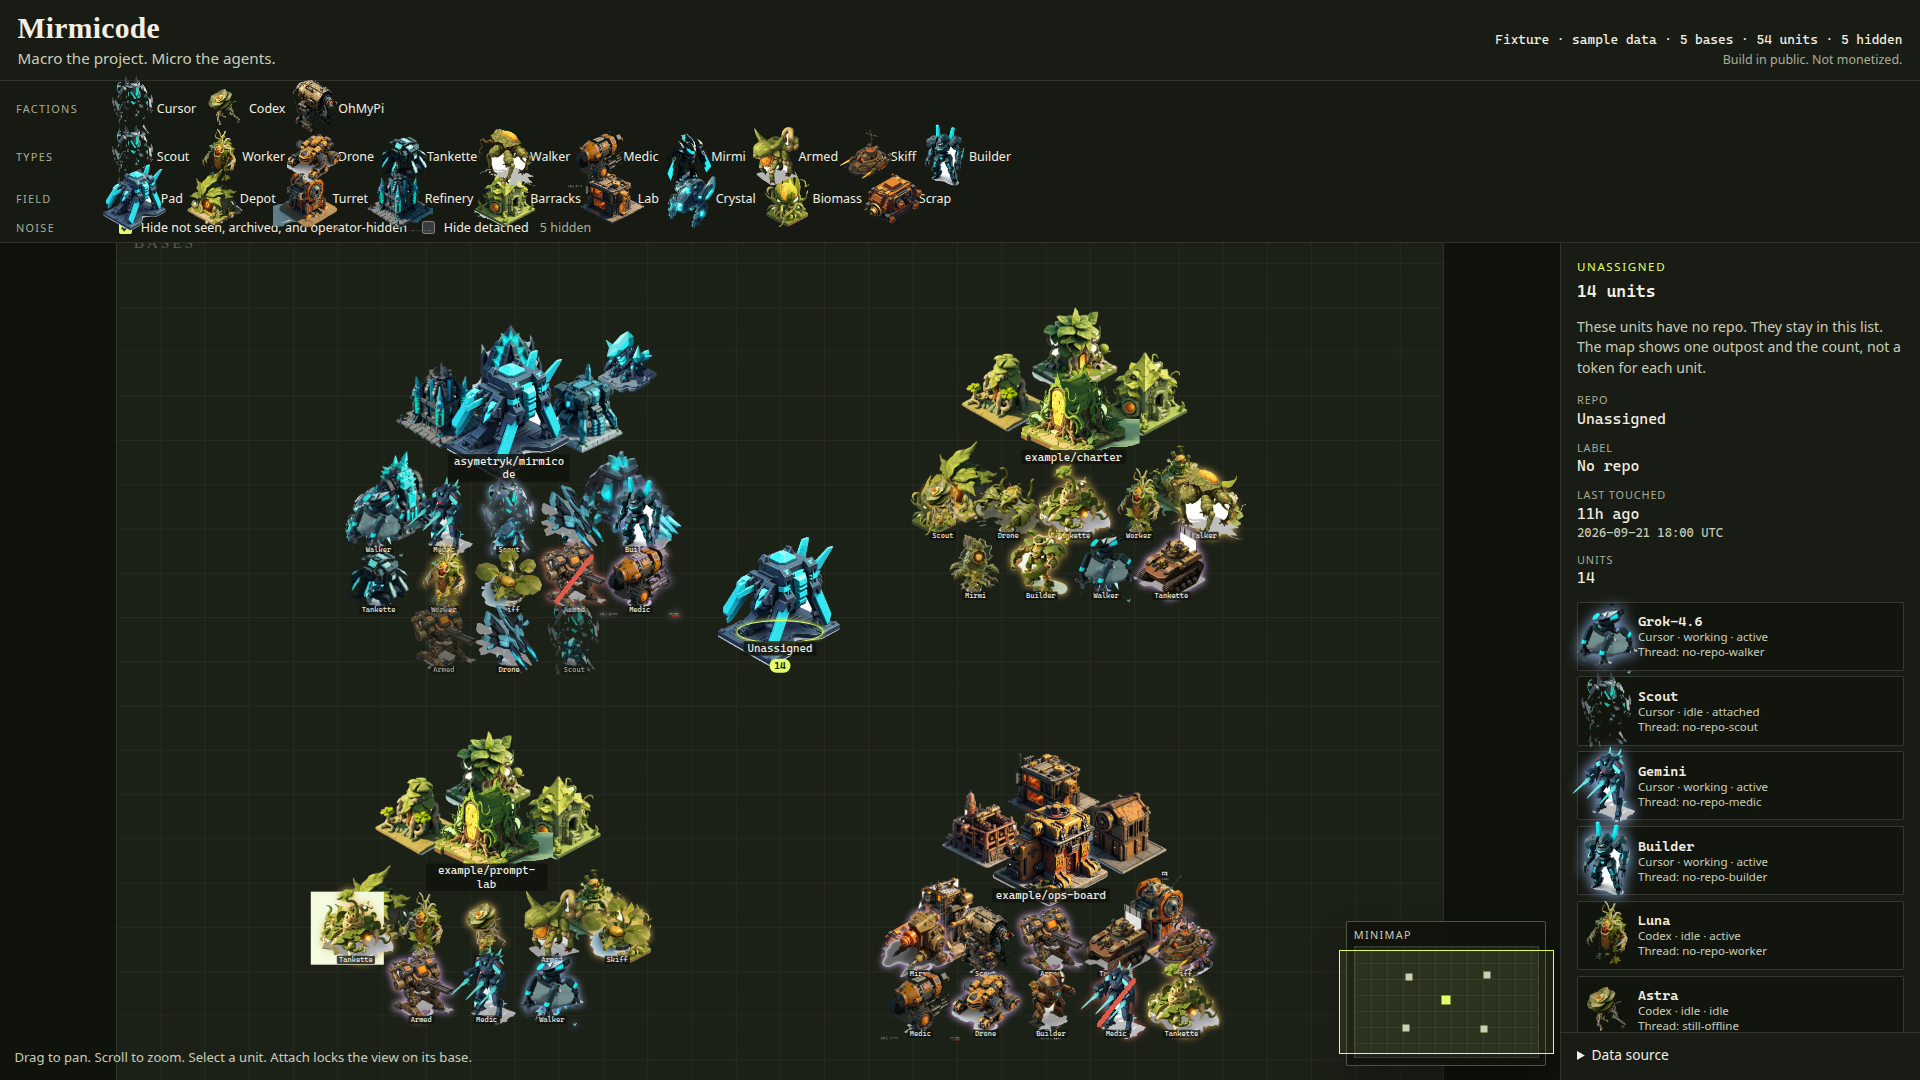
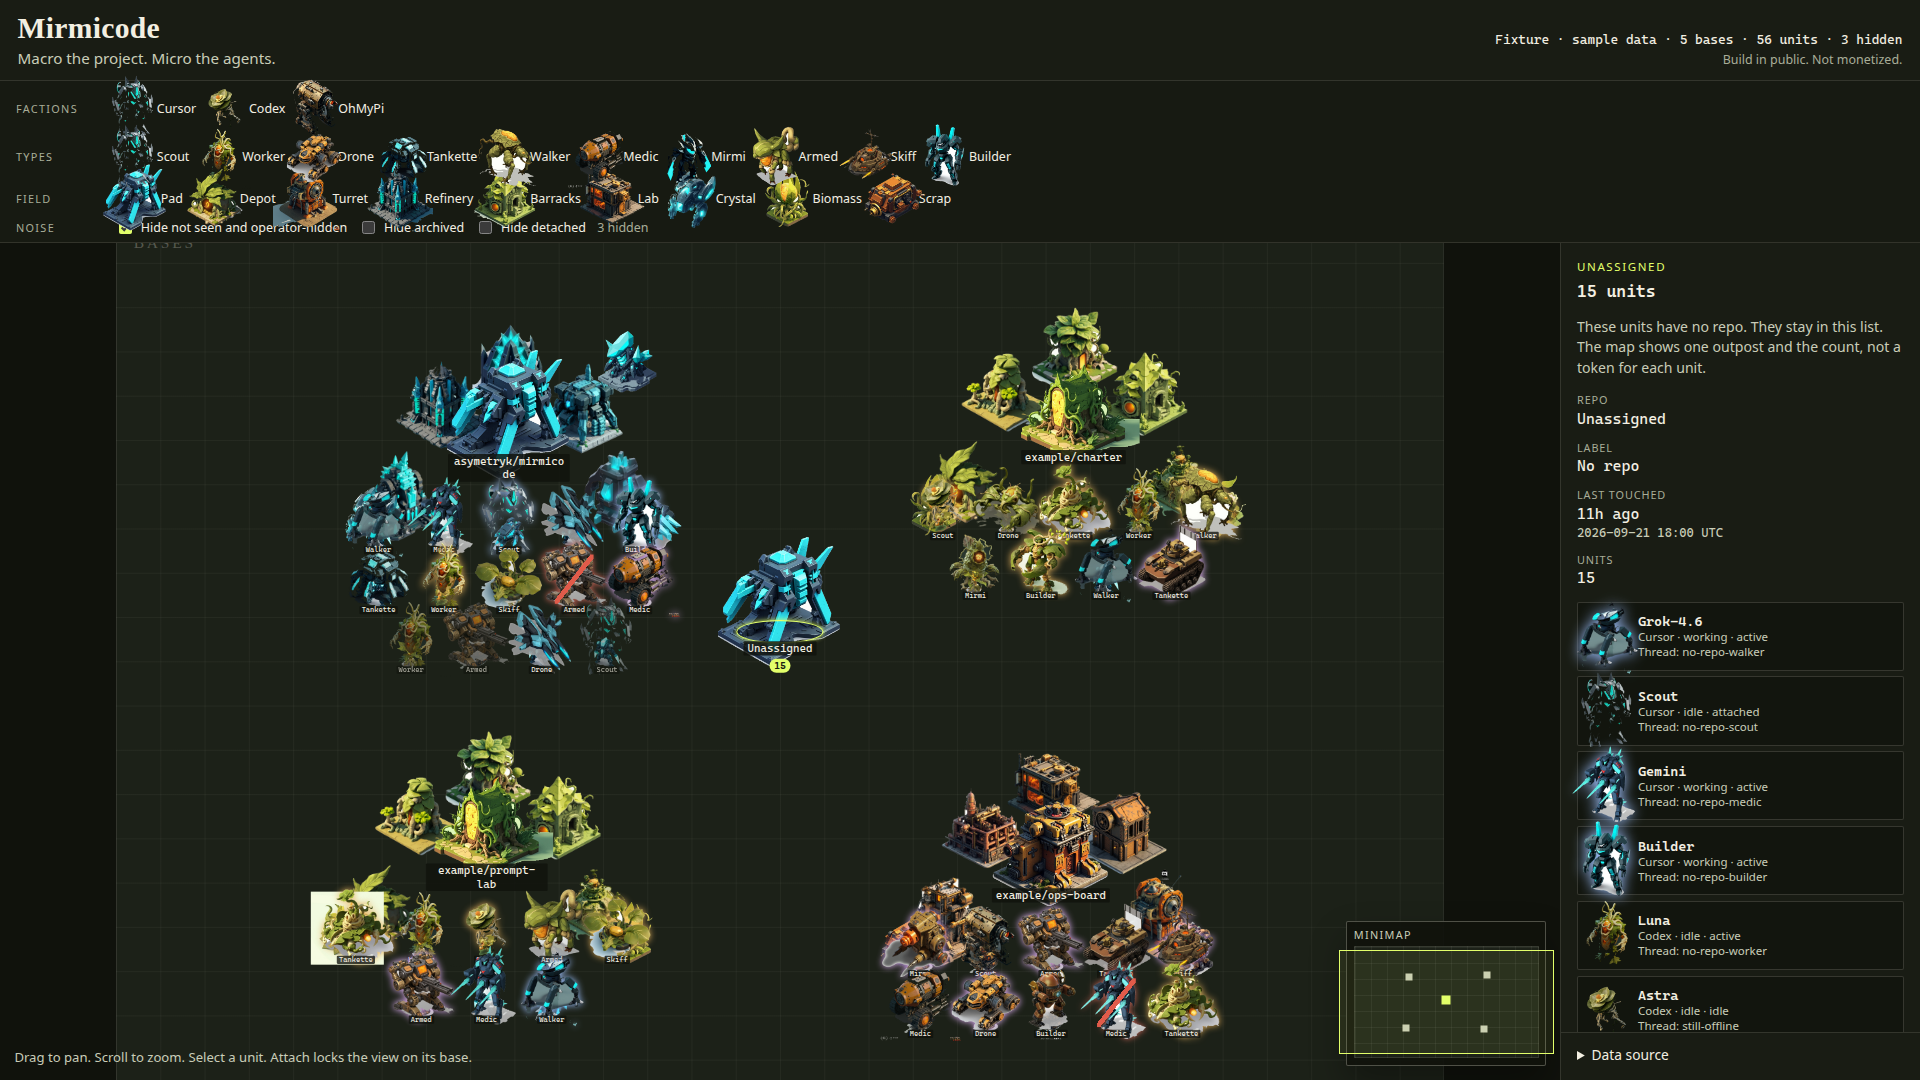
Dim archived units instead of hiding them by default
Archived stays on the map at lower emphasis, with an optional Hide archived
switch. Default hide remains not_seen and operator-hidden. Unknown stays
dim, and Last prompt still prefers the observed prompt fields.

Changed region(s): [[0.1875, 0.55, 0.3438, 0.6417], [0.125, 0.1833, 0.3438, 0.2139]]

diff --git a/src/mapNoise.test.ts b/src/mapNoise.test.ts
@@ -30,39 +30,52 @@ describe("exactToken", () => {
 describe("noiseReason", () => {
   const on = DEFAULT_NOISE_FILTER;
 
-  it("hard-hides not_seen, archived, and annotation.hidden", () => {
+  it("hard-hides not_seen and annotation.hidden, and dims archived until asked", () => {
     expect(noiseReason({ presence: "not_seen", lifecycle: "idle" }, on)).toBe("not_seen");
     expect(noiseReason({ presence: "NOT_SEEN", lifecycle: null }, on)).toBe("not_seen");
-    expect(noiseReason({ presence: "present", lifecycle: "archived" }, on)).toBe("archived");
+    expect(noiseReason({ presence: "present", lifecycle: "archived" }, on)).toBeNull();
     expect(noiseReason({ presence: "present", lifecycle: "idle", hidden: true }, on)).toBe("hidden");
+    expect(
+      noiseReason({ presence: "present", lifecycle: "archived" }, { hideNoise: true, hideDetached: false, hideArchived: true }),
+    ).toBe("archived");
   });
 
-  it("keeps detached and unknown visible, including a stale snapshot's units", () => {
+  it("keeps archived, detached, and unknown visible, including a stale snapshot's units", () => {
     expect(noiseReason({ presence: "present", lifecycle: "detached" }, on)).toBeNull();
+    expect(noiseReason({ presence: "present", lifecycle: "archived" }, on)).toBeNull();
     expect(noiseReason({ presence: "present", lifecycle: "unknown", harness: "cursor" }, on)).toBeNull();
     expect(noiseReason({ presence: "present", lifecycle: "idle" }, on)).toBeNull();
     expect(noiseReason({ presence: "not-seen", lifecycle: "idle" }, on)).toBeNull();
     expect(noiseReason({ presence: null, lifecycle: null }, on)).toBeNull();
-    expect(noiseReason({ presence: "present", lifecycle: "detached" }, { hideNoise: true, hideDetached: true })).toBe("detached");
-    expect(noiseReason({ presence: "not_seen", lifecycle: "archived", hidden: true }, { hideNoise: false, hideDetached: false })).toBeNull();
+    expect(
+      noiseReason({ presence: "present", lifecycle: "detached" }, { hideNoise: true, hideDetached: true, hideArchived: false }),
+    ).toBe("detached");
+    expect(
+      noiseReason(
+        { presence: "not_seen", lifecycle: "archived", hidden: true },
+        { hideNoise: false, hideDetached: false, hideArchived: false },
+      ),
+    ).toBeNull();
 
     const { bases, stale } = normalizeWorkingSetPayload({
       snapshot: { stale: true },
       items: [
         { item_id: "still-here", observed: { repo_name: "example/kept", lifecycle: "idle", presence: "present" } },
-        { item_id: "gone", observed: { repo_name: "example/kept", lifecycle: "archived", presence: "present" } },
+        { item_id: "cold", observed: { repo_name: "example/kept", lifecycle: "archived", presence: "present" } },
       ],
     });
     expect(stale).toBe(true);
     const filtered = applyNoiseFilter(bases, DEFAULT_NOISE_FILTER);
-    expect(filtered.bases[0]?.units.map((unit) => unit.id)).toEqual(["still-here"]);
-    expect(filtered.hiddenCount).toBe(1);
+    expect(filtered.bases[0]?.units.map((unit) => unit.id)).toEqual(["still-here", "cold"]);
+    expect(unitEmphasis(filtered.bases[0]!.units[1]!, "example/kept")).toBe("dim");
+    expect(filtered.hiddenCount).toBe(0);
   });
 });
 
 describe("unitEmphasis", () => {
-  it("dims detached and unknown, and demotes repo-less Cursor unknowns further", () => {
+  it("dims archived, detached, and unknown, and demotes repo-less Cursor unknowns further", () => {
     expect(unitEmphasis({ presence: "present", lifecycle: "idle" }, "example/repo")).toBe("normal");
+    expect(unitEmphasis({ presence: "present", lifecycle: "archived" }, "example/repo")).toBe("dim");
     expect(unitEmphasis({ presence: "present", lifecycle: "detached" }, "example/repo")).toBe("dim");
     expect(unitEmphasis({ presence: "present", lifecycle: "unknown", harness: "cursor" }, "example/repo")).toBe("dim");
     expect(unitEmphasis({ presence: "present", lifecycle: "unknown", harness: "codex" }, "Unassigned")).toBe("dim");
@@ -84,13 +97,15 @@ describe("applyNoiseFilter", () => {
       ],
     });
     const filtered = applyNoiseFilter(bases, DEFAULT_NOISE_FILTER);
-    expect(filtered.hiddenCount).toBe(2);
-    expect(filtered.bases.map((base) => base.repo)).toEqual(["Unassigned", "example/kept"]);
+    expect(filtered.hiddenCount).toBe(1);
+    expect(filtered.bases.map((base) => base.repo)).toEqual(["Unassigned", "example/kept", "example/empty"]);
     expect(filtered.bases[0]?.units.map((unit) => unit.id)).toEqual(["detached", "bc-cloud"]);
     expect(unitEmphasis(filtered.bases[0]!.units[0]!, "Unassigned")).toBe("dim");
     expect(unitEmphasis(filtered.bases[0]!.units[1]!, "Unassigned")).toBe("collector");
     expect(drawsUnitTokens("Unassigned")).toBe(false);
     expect(filtered.bases[1]?.units.map((unit) => unit.id)).toEqual(["kept"]);
+    expect(filtered.bases[2]?.units.map((unit) => unit.id)).toEqual(["archived"]);
+    expect(unitEmphasis(filtered.bases[2]!.units[0]!, "example/empty")).toBe("dim");
   });
 
   it("does not throw when presence, lifecycle, and freshness are missing", () => {
@@ -104,21 +119,17 @@ describe("applyNoiseFilter", () => {
 });
 
 describe("sample fixture noise", () => {
-  it("hides not_seen, archived, and operator-hidden, and keeps detached plus collectors", () => {
+  it("hides not_seen and operator-hidden, and keeps archived, detached, and collectors", () => {
     const snapshot = loadFixture();
     expect(snapshot.stale).toBe(false);
     const filtered = applyNoiseFilter(snapshot.bases, DEFAULT_NOISE_FILTER);
     const visibleIds = filtered.bases.flatMap((base) => base.units.map((unit) => unit.id));
-    const hiddenIds = [
-      "mirmicode-not-seen",
-      "mirmicode-not-seen-spaced",
-      "mirmicode-archived",
-      "mirmicode-operator-hidden",
-      "unassigned-archived",
-    ];
+    const hiddenIds = ["mirmicode-not-seen", "mirmicode-not-seen-spaced", "mirmicode-operator-hidden"];
     for (const id of hiddenIds) expect(visibleIds).not.toContain(id);
 
     expect(visibleIds).toContain("mirmicode-grok");
+    expect(visibleIds).toContain("mirmicode-archived");
+    expect(visibleIds).toContain("unassigned-archived");
     expect(visibleIds).toContain("mirmicode-detached");
     expect(visibleIds).toContain("mirmicode-cursor-unknown");
     expect(visibleIds).toContain("bc-collector");
@@ -140,7 +151,10 @@ describe("sample fixture noise", () => {
     });
     expect(grok?.lastPrompt).toMatch(/last-prompt/i);
 
-    const withoutDetached = applyNoiseFilter(snapshot.bases, { hideNoise: true, hideDetached: true });
+    const archived = snapshot.bases.flatMap((base) => base.units).find((unit) => unit.id === "mirmicode-archived");
+    expect(unitEmphasis(archived!, "asymetryk/mirmicode")).toBe("dim");
+
+    const withoutDetached = applyNoiseFilter(snapshot.bases, { hideNoise: true, hideDetached: true, hideArchived: false });
     const stillVisible = withoutDetached.bases.flatMap((base) => base.units.map((unit) => unit.id));
     expect(stillVisible).not.toContain("mirmicode-detached");
     expect(stillVisible).not.toContain("unassigned-detached");
@@ -188,7 +202,9 @@ describe("live feed shape", () => {
 
     const filtered = applyNoiseFilter(normalized.bases, DEFAULT_NOISE_FILTER);
     const visible = filtered.bases.flatMap((base) => base.units);
-    expect(visible.some((unit) => unit.presence === "not_seen" || unit.lifecycle === "archived")).toBe(false);
+    expect(visible.some((unit) => unit.presence === "not_seen")).toBe(false);
+    expect(visible.filter((unit) => unit.lifecycle === "archived")).toHaveLength(SHAPE.archived);
+    expect(visible.filter((unit) => unit.lifecycle === "archived").every((unit) => unitEmphasis(unit) === "dim")).toBe(true);
     expect(visible.some((unit) => unit.lifecycle === "detached")).toBe(true);
     expect(visible.some((unit) => unit.lifecycle === "unknown")).toBe(true);
     expect(filtered.bases.filter((base) => !drawsUnitTokens(base.repo))).toHaveLength(1);
@@ -205,9 +221,13 @@ describe("live feed shape", () => {
     expect(unassigned?.units.slice(-collectors.length).every((unit) => unitEmphasis(unit, "Unassigned") === "collector")).toBe(true);
     expect(visible.length + filtered.hiddenCount).toBe(SHAPE.items);
 
-    const detachedHidden = applyNoiseFilter(normalized.bases, { hideNoise: true, hideDetached: true });
+    const detachedHidden = applyNoiseFilter(normalized.bases, { hideNoise: true, hideDetached: true, hideArchived: false });
     expect(detachedHidden.bases.flatMap((base) => base.units).some((unit) => unit.lifecycle === "detached")).toBe(false);
     expect(detachedHidden.hiddenCount).toBe(filtered.hiddenCount + SHAPE.detached);
+
+    const archivedHidden = applyNoiseFilter(normalized.bases, { hideNoise: true, hideDetached: false, hideArchived: true });
+    expect(archivedHidden.bases.flatMap((base) => base.units).some((unit) => unit.lifecycle === "archived")).toBe(false);
+    expect(archivedHidden.hiddenCount).toBe(filtered.hiddenCount + SHAPE.archived);
   });
 });
 

diff --git a/src/mapNoise.ts b/src/mapNoise.ts
@@ -4,15 +4,18 @@ import type { CampaignBase } from "./types";
 export const UNASSIGNED_REPO = "Unassigned";
 
 export type NoiseFilter = {
-  /** Hide presence `not_seen`, lifecycle `archived`, and annotation.hidden true. */
+  /** Hide presence `not_seen` and annotation.hidden true. */
   hideNoise: boolean;
   /** Optional. Detached stays dimmed when this is off. */
   hideDetached: boolean;
+  /** Optional. Archived stays dimmed when this is off. */
+  hideArchived: boolean;
 };
 
 export const DEFAULT_NOISE_FILTER: NoiseFilter = {
   hideNoise: true,
   hideDetached: false,
+  hideArchived: false,
 };
 
 export type NoiseReason = "not_seen" | "archived" | "hidden" | "detached";
@@ -59,21 +62,21 @@ export function exactToken(value: unknown): string | null {
 }
 
 /**
- * Hard-hide reasons. Detached and unknown stay visible.
+ * Hard-hide reasons. Archived, detached, and unknown stay visible unless their optional switch is on.
  * snapshot.stale is not a hide signal.
  */
 export function noiseReason(unit: NoiseSubject, filter: NoiseFilter): NoiseReason | null {
   if (filter.hideNoise) {
     if (unit.hidden === true) return "hidden";
     if (exactToken(unit.presence) === NOT_SEEN) return "not_seen";
-    if (exactToken(unit.lifecycle) === ARCHIVED) return "archived";
   }
+  if (filter.hideArchived && exactToken(unit.lifecycle) === ARCHIVED) return "archived";
   if (filter.hideDetached && exactToken(unit.lifecycle) === DETACHED) return "detached";
   return null;
 }
 
 /**
- * Detached and unknown are cold, not dead.
+ * Archived, detached, and unknown are cold, not dead.
  * A Cursor unit with lifecycle unknown and no repo is dimmed further.
  */
 export function unitEmphasis(unit: NoiseSubject, repo = ""): Emphasis {
@@ -81,7 +84,7 @@ export function unitEmphasis(unit: NoiseSubject, repo = ""): Emphasis {
   if (lifecycle === UNKNOWN && exactToken(unit.harness) === CURSOR && isUnassignedRepo(repo)) {
     return "collector";
   }
-  if (lifecycle === DETACHED || lifecycle === UNKNOWN) return "dim";
+  if (lifecycle === ARCHIVED || lifecycle === DETACHED || lifecycle === UNKNOWN) return "dim";
   return "normal";
 }
 

diff --git a/src/App.tsx b/src/App.tsx
@@ -16,6 +16,7 @@ import type { MapSnapshot } from "./types";
 
 const HIDE_NOISE_KEY = "mirmicode.hideNoise";
 const HIDE_DETACHED_KEY = "mirmicode.hideDetached";
+const HIDE_ARCHIVED_KEY = "mirmicode.hideArchived";
 
 export function App() {
   const [urlDraft, setUrlDraft] = useState(readStartupUrl);
@@ -127,6 +128,11 @@ export function App() {
     writeFlag(HIDE_DETACHED_KEY, value);
   }
 
+  function onHideArchived(value: boolean) {
+    setFilter((current) => ({ ...current, hideArchived: value }));
+    writeFlag(HIDE_ARCHIVED_KEY, value);
+  }
+
   const banner = [fallbackReason, staleNote, snapshot?.notice].filter(Boolean).join(" ") || null;
 
   return (
@@ -152,9 +158,11 @@ export function App() {
         bases={positioned}
         hideNoise={filter.hideNoise}
         hideDetached={filter.hideDetached}
+        hideArchived={filter.hideArchived}
         hiddenCount={filtered.hiddenCount}
         onHideNoise={onHideNoise}
         onHideDetached={onHideDetached}
+        onHideArchived={onHideArchived}
       />
       <MapStage
         key={`${snapshot?.source ?? "pending"}:${snapshot?.fetchedAt ?? "0"}`}
@@ -213,6 +221,7 @@ function readNoiseFilter(): NoiseFilter {
   return {
     hideNoise: readFlag(HIDE_NOISE_KEY, DEFAULT_NOISE_FILTER.hideNoise),
     hideDetached: readFlag(HIDE_DETACHED_KEY, DEFAULT_NOISE_FILTER.hideDetached),
+    hideArchived: readFlag(HIDE_ARCHIVED_KEY, DEFAULT_NOISE_FILTER.hideArchived),
   };
 }
 

diff --git a/src/components/Legend.tsx b/src/components/Legend.tsx
@@ -19,18 +19,22 @@ type LegendProps = {
   bases: CampaignBase[];
   hideNoise: boolean;
   hideDetached: boolean;
+  hideArchived: boolean;
   hiddenCount: number;
   onHideNoise: (value: boolean) => void;
   onHideDetached: (value: boolean) => void;
+  onHideArchived: (value: boolean) => void;
 };
 
 export function Legend({
   bases,
   hideNoise,
   hideDetached,
+  hideArchived,
   hiddenCount,
   onHideNoise,
   onHideDetached,
+  onHideArchived,
 }: LegendProps) {
   const harnesses = bases.flatMap((base) => base.units.map((unit) => unit.harness));
   const factions = legendFactions(harnesses);
@@ -80,7 +84,15 @@ export function Legend({
             checked={hideNoise}
             onChange={(event) => onHideNoise(event.target.checked)}
           />
-          Hide not seen, archived, and operator-hidden
+          Hide not seen and operator-hidden
+        </label>
+        <label>
+          <input
+            type="checkbox"
+            checked={hideArchived}
+            onChange={(event) => onHideArchived(event.target.checked)}
+          />
+          Hide archived
         </label>
         <label>
           <input

diff --git a/README.md b/README.md
@@ -88,7 +88,7 @@ npm run preview
 
 Drag to pan. Scroll to zoom. **Select** a unit to read its harness, model, thread, status, and lifecycle in the HUD. **Attach** locks the view on that unit’s base. The **minimap** jumps the view. Escape detaches. These are view controls. The map does not send orders to agents.
 
-The **Noise** switch starts on. It hides `presence` `not_seen`, `lifecycle` `archived`, and `annotation.hidden` true. `detached` stays on the map dimmer until **Hide detached** is turned on. `unknown` stays visible and dimmer. A Cursor unit with `lifecycle` `unknown` and no repo is dimmed further inside Unassigned. **Unassigned** is one outpost with a count. Select it to open that list in the HUD. Counts come from the loaded snapshot. They are not a fixed demo size.
+The **Noise** switch starts on. It hides `presence` `not_seen` and `annotation.hidden` true. `archived` and `detached` stay on the map dimmer until **Hide archived** or **Hide detached** is turned on. `unknown` stays visible and dimmer. A Cursor unit with `lifecycle` `unknown` and no repo is dimmed further inside Unassigned. **Unassigned** is one outpost with a count. Select it to open that list in the HUD. Counts come from the loaded snapshot. They are not a fixed demo size.
 
 The legend under the title groups the atlas: faction bodies, the ten unit types, and the field (buildings and resource props). It does not list every file in the pack.
 
@@ -275,13 +275,13 @@ When the live payload uses different names, extend the alias lists in `normalize
 
 ![Unassigned drilldown list](docs/unassigned-list.png)
 
-**Hide not seen, archived, and operator-hidden** defaults to on (`mirmicode.hideNoise`). **Hide detached** defaults to off (`mirmicode.hideDetached`). This browser remembers both. The status line counts visible bases and units, then adds a hidden count when a filter removed any. Those counts are computed from the snapshot.
+**Hide not seen and operator-hidden** defaults to on (`mirmicode.hideNoise`). **Hide archived** defaults to off (`mirmicode.hideArchived`). **Hide detached** defaults to off (`mirmicode.hideDetached`). This browser remembers each switch. The status line counts visible bases and units, then adds a hidden count when a filter removed any. Those counts are computed from the snapshot.
 
 | Rule | Default | Effect |
 | --- | --- | --- |
 | Not seen | On | Hide when `presence` is `not_seen` |
-| Archived | On | Hard-hide when `lifecycle` is `archived` |
 | Operator hidden | On | Hide when `annotation.hidden` is boolean `true` |
+| Archived | Dim, hide optional | Stay on the map, drawn dimmer. **Hide archived** removes them |
 | Detached | Dim, hide optional | Stay on the map, drawn dimmer. **Hide detached** removes them |
 | Unknown lifecycle | Dim | Stay visible, drawn dimmer. Unclear or cold, not dead |
 | Repo-less Cursor unknown | Demote | Dimmed further and listed last in the Unassigned drilldown. Not removed |
@@ -291,7 +291,7 @@ Comparison is trim and case fold on those exact strings. A missing, blank, or no
 
 An item is Unassigned only when `observed.repo` and `observed.repo_name` are both missing or blank. One of those fields is enough to place it on that repo.
 
-Hidden units remain in the snapshot. Turning the noise switch off draws `not_seen`, `archived`, and operator-hidden units again. Unknown stays dim either way. A base whose units are all hidden leaves the map until one of them passes.
+Hidden units remain in the snapshot. Turning the noise switch off draws `not_seen` and operator-hidden units again. Archived stays dim unless **Hide archived** is on. Unknown stays dim either way. A base whose units are all hidden leaves the map until one of them passes.
 
 ### Unassigned
 
